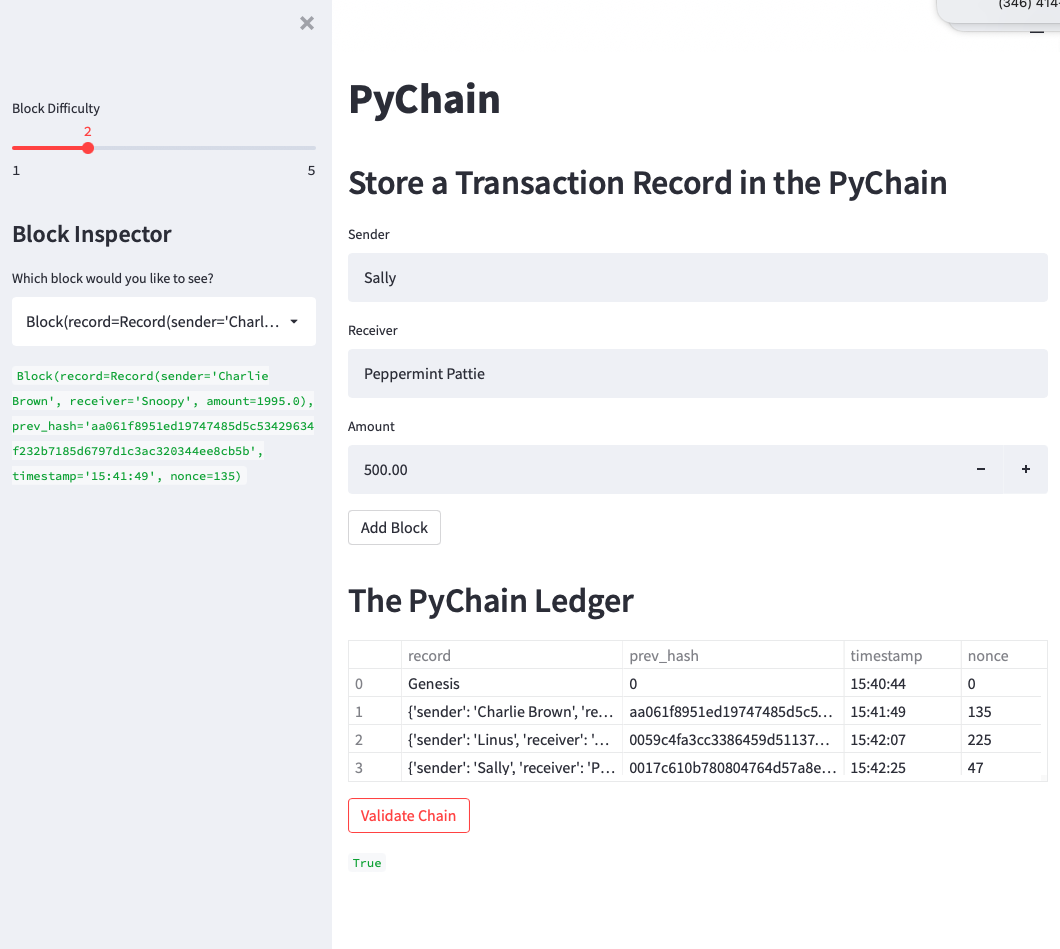
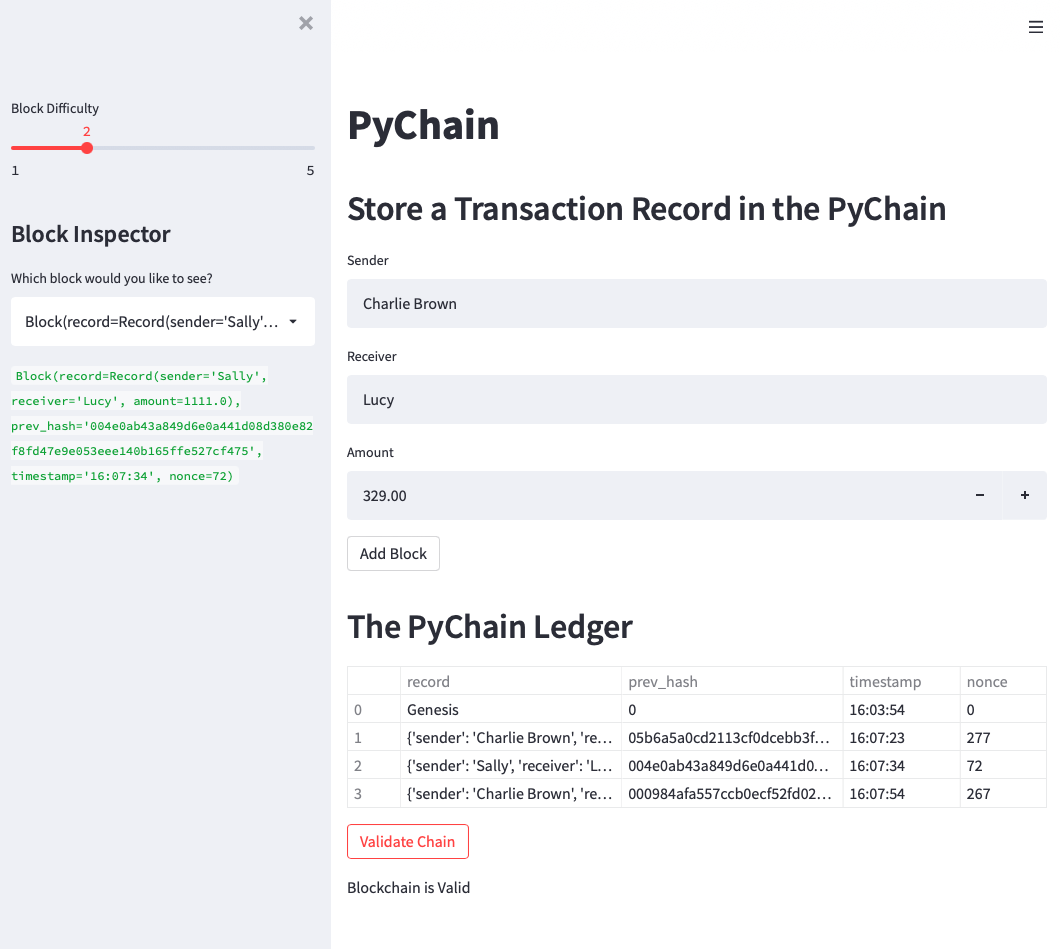
Fix Blockchain is Valid

diff --git a/pychain.py b/pychain.py
@@ -223,7 +223,8 @@ selected_block = st.sidebar.selectbox(
 st.sidebar.write(selected_block)
 
 if st.button("Validate Chain"):
-    st.write(pychain.is_valid())
+    if pychain.is_valid():
+            st.write("Blockchain is Valid")
 
 ################################################################################
 # Step 4:
